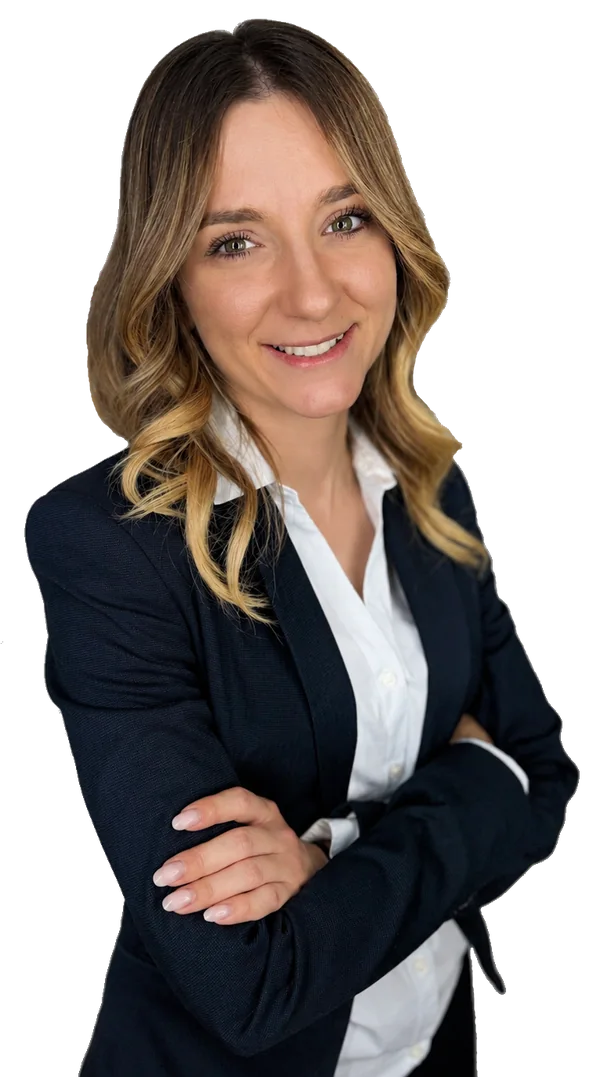
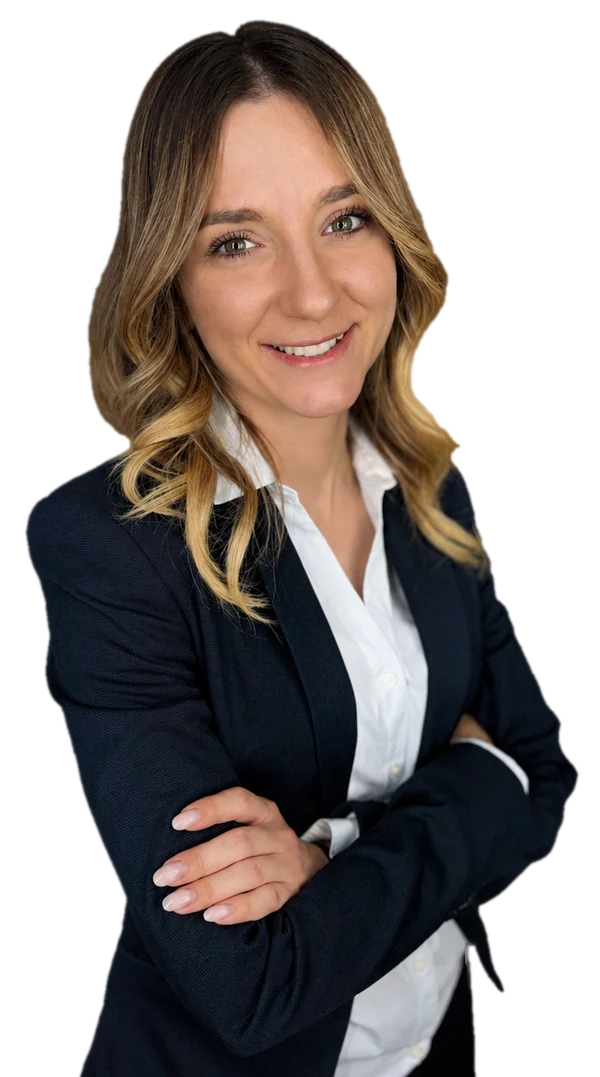
Porträt im Dunkelmodus: Weisssaum entfernt, hellerer Rahmen, lesbares Badge
Claude-Session: https://claude.ai/code/session_019jKmshRZA8zRzgNqHQU4co

diff --git a/src/style.css b/src/style.css
@@ -359,12 +359,12 @@ button { cursor: pointer; }
 .about-grid { display: grid; grid-template-columns: 0.8fr 1.2fr; gap: var(--s8); align-items: center; }
 .portrait { position: relative; justify-self: center; width: min(380px, 84%); }
 .portrait-frame { position: relative; aspect-ratio: 600 / 860; isolation: isolate; }
-.portrait-frame::before { content: ''; position: absolute; z-index: -1; inset: 20% 0 0 0; border-radius: var(--r-xl); background: radial-gradient(circle at 50% 30%, var(--forest-700), var(--forest-950) 80%); box-shadow: var(--shadow-card), 0 0 0 10px color-mix(in srgb, var(--brass-400) 18%, transparent); }
+.portrait-frame::before { content: ''; position: absolute; z-index: -1; inset: 20% 0 0 0; border-radius: var(--r-xl); background: radial-gradient(circle at 50% 30%, color-mix(in srgb, var(--forest-700) 82%, #fff), var(--forest-800) 85%); box-shadow: var(--shadow-card), 0 0 0 1px rgb(var(--brass-rgb) / 0.35), 0 0 0 10px rgb(var(--brass-rgb) / 0.14); }
 .portrait-frame::after { content: ''; position: absolute; z-index: -1; inset: 20% 0 0 0; border-radius: var(--r-xl); background: radial-gradient(60% 40% at 50% 8%, rgb(var(--brass-rgb) / 0.3), transparent 70%); }
 .portrait-frame img { position: absolute; inset: 0 auto auto 50%; width: 94%; height: auto; translate: -50% 0; clip-path: inset(0 0 15% 0 round 0 0 var(--r-xl) var(--r-xl)); }
-.badge { position: absolute; left: 50%; translate: -50% 50%; bottom: 0; width: max-content; display: flex; align-items: center; gap: 10px; padding: 10px 16px 10px 12px; border-radius: 999px; background: var(--surface); color: var(--ink); box-shadow: var(--shadow-card); font-size: 0.85rem; font-weight: 600; line-height: 1.25; max-width: 78%; }
-.badge .ic { width: 30px; height: 30px; padding: 6px; border-radius: 50%; background: var(--forest-800); color: var(--brass-300); }
-.badge small { display: block; font-weight: 500; color: var(--muted); font-size: 0.74rem; }
+.badge { position: absolute; left: 50%; translate: -50% 50%; bottom: 0; width: max-content; display: flex; align-items: center; gap: 10px; padding: 10px 16px 10px 12px; border-radius: 999px; background: #fbf8f1; color: #10231d; box-shadow: 0 10px 30px rgb(0 0 0 / 0.28); font-size: 0.85rem; font-weight: 600; line-height: 1.25; max-width: 78%; }
+.badge .ic { width: 30px; height: 30px; padding: 6px; border-radius: 50%; background: var(--forest-800); color: #f5f2e9; }
+.badge small { display: block; font-weight: 500; color: #55645d; font-size: 0.74rem; }
 .about h2 { margin-bottom: var(--s2); }
 .about-role { font-weight: 600; color: var(--accent-text); margin-bottom: var(--s5); }
 .about p { color: var(--muted); font-size: 1.08rem; max-width: 38em; }
@@ -459,3 +459,4 @@ body:has(dialog[open]) { overflow: hidden; }
   .reveal, .split .line > span { opacity: 1; transform: none; }
   .marquee-track { animation: none; }
 }
+.about .badge { color: #10231d; margin: 0; }
